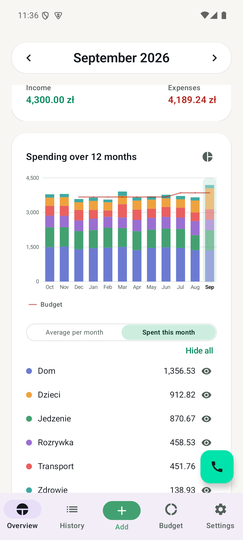
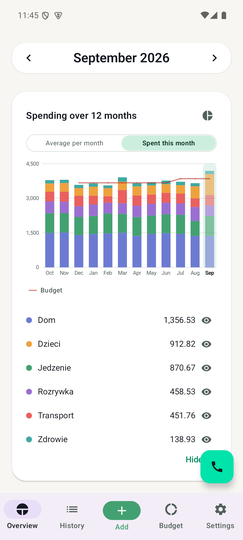
Make the changelog actually fetch, and put the switch where it acts
The changelog opened empty on every tap. Api is blocking OkHttp and the button
handed it rememberCoroutineScope, which is the main dispatcher, so every call
threw NetworkOnMainThreadException — and runCatching turned that into an empty
list, which the dialog rendered as "no release notes yet". The fetch moves to
IO, where every other call in Updater already runs.

It now returns null for a failure and empty for a server with nothing to say,
because collapsing those two is precisely what hid the crash: the broken state
and the quiet state printed the same sentence.

The scroll emoji is an (i). An emoji is drawn by whatever font the phone ships,
so it was a different picture on every device and matched nothing else on the
screen.

The average/month switch moves above the twelve-month chart, where it already
sits on the pie face. It governs the chart and the legend both, and having it
below the chart meant scrolling past the thing it controls to reach it.

Show all / Hide all moves under the category list. It acts on that list, and a
control that acts on a list belongs at the end of it — above, it read as a
heading for the rows it actually operates on.

diff --git a/android/app/src/main/java/com/monyx/ui/overview/CategoryHistoryChart.kt b/android/app/src/main/java/com/monyx/ui/overview/CategoryHistoryChart.kt
@@ -278,49 +278,12 @@ fun CategoryHistoryLegend(
     hidden: Set<String>,
     /** What to print per category — see [legendAmounts]. */
     amounts: Map<String, Long>,
-    /** Which of the two the column currently holds. */
-    showsMonth: Boolean,
-    onSelectAmount: (LegendAmount) -> Unit,
     onToggle: (String) -> Unit,
     onToggleAll: () -> Unit,
     onOpen: (String) -> Unit,
     modifier: Modifier = Modifier,
 ) {
     Column(modifier = modifier.fillMaxWidth(), verticalArrangement = Arrangement.spacedBy(4.dp)) {
-        AmountToggle(showsMonth = showsMonth, onSelect = onSelectAmount)
-        Row(modifier = Modifier.fillMaxWidth(), verticalAlignment = Alignment.CenterVertically) {
-            Spacer(modifier = Modifier.weight(1f))
-            // Both choices on screen, the live one filled in.
-            //
-            // This was one label with a swap arrow after it: the heading named
-            // the figure currently in the column and the arrow implied it could
-            // be something else. It read as a caption with decoration — nothing
-            // said what the other state would be, or that the words themselves
-            // were the button. Two segments say the whole thing at once: there
-            // are exactly these two answers, and this is the one you are
-            // looking at.
-            // One control rather than two, because the two are never both
-            // useful: with a full chart the only move is to clear it, and with
-            // anything hidden the move anyone reaches for is to get it all back.
-            Text(
-                text = stringResource(
-                    // Asked of the rows on screen, not of the stored set, which
-                    // outlives them and can name categories this window has
-                    // never heard of.
-                    if (categories.none { it.id in hidden }) {
-                        R.string.overview_history_hide_all
-                    } else {
-                        R.string.overview_history_show_all
-                    },
-                ),
-                style = MaterialTheme.typography.labelLarge,
-                color = MaterialTheme.colorScheme.primary,
-                modifier = Modifier
-                    .clip(MaterialTheme.shapes.small)
-                    .clickable(onClick = onToggleAll)
-                    .padding(horizontal = 6.dp, vertical = 2.dp),
-            )
-        }
         categories.forEach { category ->
             val isHidden = category.id in hidden
             Row(
@@ -384,6 +347,42 @@ fun CategoryHistoryLegend(
                     )
                 }
             }
+        }
+        Row(modifier = Modifier.fillMaxWidth(), verticalAlignment = Alignment.CenterVertically) {
+            Spacer(modifier = Modifier.weight(1f))
+            // Both choices on screen, the live one filled in.
+            //
+            // This was one label with a swap arrow after it: the heading named
+            // the figure currently in the column and the arrow implied it could
+            // be something else. It read as a caption with decoration — nothing
+            // said what the other state would be, or that the words themselves
+            // were the button. Two segments say the whole thing at once: there
+            // are exactly these two answers, and this is the one you are
+            // looking at.
+            // Under the rows, not over them. It acts on the list, and a
+            // control that acts on a list belongs at the end of it — above,
+            // it read as a heading for the thing it actually operates on.
+            // One control rather than two, because the two are never both
+            // useful: with a full chart the only move is to clear it, and with
+            // anything hidden the move anyone reaches for is to get it all back.
+            Text(
+                text = stringResource(
+                    // Asked of the rows on screen, not of the stored set, which
+                    // outlives them and can name categories this window has
+                    // never heard of.
+                    if (categories.none { it.id in hidden }) {
+                        R.string.overview_history_hide_all
+                    } else {
+                        R.string.overview_history_show_all
+                    },
+                ),
+                style = MaterialTheme.typography.labelLarge,
+                color = MaterialTheme.colorScheme.primary,
+                modifier = Modifier
+                    .clip(MaterialTheme.shapes.small)
+                    .clickable(onClick = onToggleAll)
+                    .padding(horizontal = 6.dp, vertical = 2.dp),
+            )
         }
     }
 }

diff --git a/android/app/src/main/java/com/monyx/ui/settings/SettingsScreen.kt b/android/app/src/main/java/com/monyx/ui/settings/SettingsScreen.kt
@@ -52,6 +52,7 @@ import androidx.compose.material3.Text
 import androidx.compose.material3.TextButton
 import androidx.compose.material3.TopAppBar
 import androidx.compose.material.icons.filled.Check
+import androidx.compose.material.icons.filled.Info
 import androidx.compose.material.icons.filled.Language
 import androidx.compose.runtime.Composable
 import androidx.compose.runtime.LaunchedEffect
@@ -588,14 +589,24 @@ private fun LanguageRow(label: String, selected: Boolean, onSelect: () -> Unit) 
  * about how to show them, and the server should not be making it.
  */
 @Composable
-private fun ChangelogDialog(releases: List<ReleaseNote>, onDismiss: () -> Unit) {
+private fun ChangelogDialog(
+    releases: List<ReleaseNote>,
+    failed: Boolean,
+    onDismiss: () -> Unit,
+) {
     AlertDialog(
         onDismissRequest = onDismiss,
         title = { Text(stringResource(R.string.settings_changelog)) },
         text = {
             if (releases.isEmpty()) {
                 Text(
-                    stringResource(R.string.settings_changelog_empty),
+                    stringResource(
+                        if (failed) {
+                            R.string.settings_changelog_failed
+                        } else {
+                            R.string.settings_changelog_empty
+                        },
+                    ),
                     style = MaterialTheme.typography.bodyMedium,
                     color = MaterialTheme.colorScheme.onSurfaceVariant,
                 )
@@ -650,13 +661,21 @@ private fun BuildIdentitySection() {
     val updater = app.updater
     val state by updater.state.collectAsStateWithLifecycle()
 
+    // Open-with-content, open-with-failure, or closed. Three states because a
+    // fetch that fell over and a server with nothing to say are different
+    // things to be told.
     var changelog by remember { mutableStateOf<List<ReleaseNote>?>(null) }
+    var changelogFailed by remember { mutableStateOf(false) }
     var loadingChangelog by remember { mutableStateOf(false) }
     val scope = rememberCoroutineScope()
     val changelogLabel = stringResource(R.string.settings_changelog)
 
-    if (changelog != null) {
-        ChangelogDialog(releases = changelog.orEmpty(), onDismiss = { changelog = null })
+    if (changelog != null || changelogFailed) {
+        ChangelogDialog(
+            releases = changelog.orEmpty(),
+            failed = changelogFailed,
+            onDismiss = { changelog = null; changelogFailed = false },
+        )
     }
 
     SectionCard(title = stringResource(R.string.settings_app_version)) {
@@ -674,7 +693,9 @@ private fun BuildIdentitySection() {
                 onClick = {
                     loadingChangelog = true
                     scope.launch {
-                        changelog = updater.releaseNotes()
+                        val notes = updater.releaseNotes()
+                        changelog = notes
+                        changelogFailed = notes == null
                         loadingChangelog = false
                     }
                 },
@@ -683,14 +704,14 @@ private fun BuildIdentitySection() {
                 if (loadingChangelog) {
                     CircularProgressIndicator(modifier = Modifier.size(16.dp), strokeWidth = 2.dp)
                 } else {
-                    Text(
-                        "📜",
-                        // An emoji is a glyph, so it follows fontSize, and at
-                        // bodyMedium it sat lost in the middle of a 48dp target.
-                        style = MaterialTheme.typography.titleMedium,
-                        modifier = Modifier.semantics {
-                            contentDescription = changelogLabel
-                        },
+                    // An icon rather than an emoji: emoji are drawn by whatever
+                    // font the phone happens to ship, so a scroll is a different
+                    // picture on every device and matches nothing else here.
+                    Icon(
+                        imageVector = Icons.Filled.Info,
+                        contentDescription = changelogLabel,
+                        tint = MaterialTheme.colorScheme.primary,
+                        modifier = Modifier.size(20.dp),
                     )
                 }
             }

diff --git a/android/app/src/main/java/com/monyx/update/Updater.kt b/android/app/src/main/java/com/monyx/update/Updater.kt
@@ -20,6 +20,7 @@ import kotlinx.coroutines.flow.MutableStateFlow
 import kotlinx.coroutines.flow.StateFlow
 import kotlinx.coroutines.flow.asStateFlow
 import kotlinx.coroutines.launch
+import kotlinx.coroutines.withContext
 import java.io.File
 
 sealed interface UpdateState {
@@ -94,15 +95,18 @@ class Updater(private val app: Application, private val session: Session) {
      * Runs even in a debug build, unlike [check]: reading what shipped is not
      * the same as being offered an APK this build could never install.
      *
-     * Returns empty rather than throwing. A changelog is something you open out
-     * of curiosity, and a dialog that crashes the screen behind it is a worse
-     * answer than one that says there is nothing to show.
+     * On IO, and that is not a detail: [Api] is blocking OkHttp, and the caller
+     * is a button in a composable whose scope is the main dispatcher. Without
+     * this the call threw NetworkOnMainThreadException on every tap, runCatching
+     * swallowed it, and the dialog opened empty — the failure looked exactly
+     * like a server with nothing to say.
+     *
+     * Null when the fetch failed, empty when the server genuinely has no
+     * releases. Collapsing the two is what made the bug above invisible.
      */
-    suspend fun releaseNotes(): List<ReleaseNote> {
-        val token = session.token() ?: return emptyList()
-        return runCatching { Api.latestRelease(token, 0).update?.notes }
-            .getOrNull()
-            .orEmpty()
+    suspend fun releaseNotes(): List<ReleaseNote>? = withContext(Dispatchers.IO) {
+        val token = session.token() ?: return@withContext null
+        runCatching { Api.latestRelease(token, 0).update?.notes.orEmpty() }.getOrNull()
     }
 
     private fun check(quiet: Boolean) {

diff --git a/android/app/src/main/java/com/monyx/ui/overview/OverviewScreen.kt b/android/app/src/main/java/com/monyx/ui/overview/OverviewScreen.kt
@@ -534,6 +534,12 @@ private fun HistoryFace(
         return
     }
 
+    // Above the chart, in the same place it sits on the pie face. It governs
+    // both the legend below and which question the whole card is answering, so
+    // finding it meant scrolling past a chart to a control that had been on
+    // screen a moment earlier on the other side of the card.
+    AmountToggle(showsMonth = showsMonth, onSelect = onSelectAmountMode)
+    Spacer(modifier = Modifier.height(16.dp))
     CategoryHistoryChart(
         history = history,
         hidden = hidden,
@@ -577,8 +583,6 @@ private fun HistoryFace(
         categories = legendOrder(history.categories, hidden) { amounts[it.id] ?: 0L },
         hidden = hidden,
         amounts = amounts,
-        showsMonth = showsMonth,
-        onSelectAmount = onSelectAmountMode,
         onToggle = onToggle,
         onToggleAll = onToggleAll,
         onOpen = onCategoryClick,
